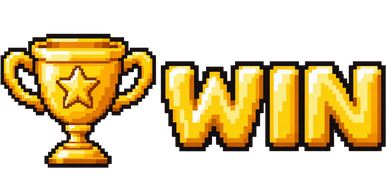
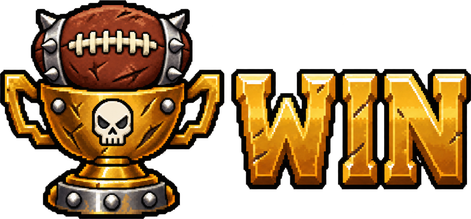
Public export of order-66 @ 375fb0fc

diff --git a/apps/tauri/src/views/console/PlayView.vue b/apps/tauri/src/views/console/PlayView.vue
@@ -427,11 +427,12 @@ function myRecent(row: FumbblRecentMatch): 'W' | 'L' | 'D' { return resultLetter
             <span class="row-text">
               <strong class="row-name">{{ game.home.name }}</strong>
               <small class="row-meta row-coach">{{ game.home.coach }}</small>
+              <small v-if="game.home.race" class="row-meta row-race">{{ game.home.race }}</small>
               <small v-if="formatTeamValue(game.home.tv)" class="row-meta">{{ formatTeamValue(game.home.tv) }}</small>
             </span>
           </div>
           <div class="row-centre">
-            <span class="row-score">{{ game.home.score }} &ndash; {{ game.away.score }}</span>
+            <span class="row-score"><span class="row-score-n">{{ game.home.score }}</span><span class="row-score-dash">&ndash;</span><span class="row-score-n">{{ game.away.score }}</span></span>
             <span class="row-phase">{{ phaseLabel(game) }}</span>
           </div>
           <div class="row-right">
@@ -441,6 +442,7 @@ function myRecent(row: FumbblRecentMatch): 'W' | 'L' | 'D' { return resultLetter
               <span class="row-text">
                 <strong class="row-name">{{ game.away.name }}</strong>
                 <small class="row-meta row-coach">{{ game.away.coach }}</small>
+              <small v-if="game.away.race" class="row-meta row-race">{{ game.away.race }}</small>
                 <small v-if="formatTeamValue(game.away.tv)" class="row-meta">{{ formatTeamValue(game.away.tv) }}</small>
               </span>
             </div>
@@ -477,6 +479,7 @@ function myRecent(row: FumbblRecentMatch): 'W' | 'L' | 'D' { return resultLetter
               <span class="row-text">
                 <strong class="row-name">{{ row.myTeam }}</strong>
                 <small class="row-meta row-coach">{{ coach }}</small>
+                <small v-if="row.myRace" class="row-meta row-race">{{ row.myRace }}</small>
                 <small v-if="formatTeamValue(row.myTv)" class="row-meta">{{ formatTeamValue(row.myTv) }}</small>
               </span>
             </div>
@@ -485,8 +488,7 @@ function myRecent(row: FumbblRecentMatch): 'W' | 'L' | 'D' { return resultLetter
                    WIN / LOSS / DRAW label art (alt text names it), from MY side of the match. -->
               <img class="row-result-art" :data-result="myRecent(row)" :src="matchResultArt(myRecent(row)).src" :srcset="matchResultArt(myRecent(row)).srcset"
                 :width="matchResultArt(myRecent(row)).width" :height="matchResultArt(myRecent(row)).height" :alt="matchResultArt(myRecent(row)).alt" />
-              <span class="row-score">{{ row.myScore }} &ndash; {{ row.opponentScore }}</span>
-              <span class="row-phase">{{ relativeTime(row.when) }}</span>
+              <span class="row-score"><span class="row-score-n">{{ row.myScore }}</span><span class="row-score-dash">&ndash;</span><span class="row-score-n">{{ row.opponentScore }}</span></span>
             </div>
             <div class="row-right">
               <div class="row-team away">
@@ -495,6 +497,7 @@ function myRecent(row: FumbblRecentMatch): 'W' | 'L' | 'D' { return resultLetter
                 <span class="row-text">
                   <strong class="row-name">{{ row.opponentTeam }}</strong>
                   <small class="row-meta row-coach">{{ row.opponentCoach }}</small>
+                  <small v-if="row.opponentRace" class="row-meta row-race">{{ row.opponentRace }}</small>
                   <small v-if="formatTeamValue(row.opponentTv)" class="row-meta">{{ formatTeamValue(row.opponentTv) }}</small>
                 </span>
               </div>
@@ -502,6 +505,8 @@ function myRecent(row: FumbblRecentMatch): 'W' | 'L' | 'D' { return resultLetter
               <div class="row-actions">
                 <button class="bevel resume-button details-button" type="button" :data-cached="hasDetails(row)" :title="hasDetails(row) ? `End-of-game details for match ${row.matchId}` : `No stored details for match ${row.matchId} — replay it from here`" @click="openDetails(row)">Details</button>
                 <button class="bevel resume-button row-replay-button" type="button" :disabled="gameStore.replay.loading" :title="`Replay match ${row.matchId}`" @click="replayMatch(row)">Replay</button>
+                <!-- Owner 10-01 (S78): when it was played sits under the buttons, not in the result box. -->
+                <span class="row-when">{{ relativeTime(row.when) }}</span>
               </div>
             </div>
           </article>
@@ -656,7 +661,7 @@ h2 { display: flex; align-items: center; gap: 10px; color: var(--pb-carmine); fo
 /* Owner 10-01 (S77): a game row is THREE boxes - my team | result | opponent - each bevelled and lifted off the row
    so it reads as its own panel. The left and right COLUMNS are equal, so the result box (and its icon) sits on the
    row's centre line; the right column holds the opponent box and the action buttons (.row-right). */
-.game-row { display: grid; grid-template-columns: minmax(0, 1fr) minmax(190px, .34fr) minmax(0, 1fr); align-items: stretch; gap: 12px; padding: 12px 14px; border: 1px solid var(--pb-line); border-radius: 4px; background: var(--ui-eggshell, #E7DDC7); }
+.game-row { display: grid; grid-template-columns: minmax(0, 1fr) minmax(250px, .34fr) minmax(0, 1fr); align-items: stretch; gap: 12px; padding: 12px 14px; border: 1px solid var(--pb-line); border-radius: 4px; background: var(--ui-eggshell, #E7DDC7); }
 .row-team, .row-centre { box-sizing: border-box; padding: 10px 14px; border: 1px solid color-mix(in srgb, var(--pb-text) 30%, transparent); border-radius: 6px;
   background: var(--ui-old-lace, #F8F5E7);
   box-shadow: inset 0 1px 0 rgba(255, 255, 255, .9), inset 0 -3px 0 rgba(26, 64, 28, .12), 0 3px 7px rgba(26, 64, 28, .24); }
@@ -666,17 +671,21 @@ h2 { display: flex; align-items: center; gap: 10px; color: var(--pb-carmine); fo
 .row-right > .bevel { align-self: center; flex: none; }
 .row-team.away { flex-direction: row-reverse; text-align: right; }
 .row-logo { flex: 0 0 128px; width: 128px; height: 128px; object-fit: contain; image-rendering: pixelated; }
-.row-text { display: grid; gap: 8px; min-width: 0; } /* owner 10-01 (S76): room around the coach name (was 2px) */
+.row-text { display: grid; gap: 6px; min-width: 0; } /* owner 10-01 (S76/S79): name / coach / race / TV, evenly spaced */
 .row-name { color: var(--pb-text); font-size: 24px; font-weight: 500; line-height: 1.15; overflow-wrap: break-word; }
 .row-meta { color: var(--pb-muted); font-size: 18px; line-height: 1.2; }
 .row-coach { color: var(--pb-text); } /* owner 09-25: coach names in the darker green */
 .row-centre { display: grid; justify-items: center; align-content: center; gap: 6px; min-width: 0; }
-.row-score { color: var(--pb-carmine); font-family: 'Nuffle', system-ui, sans-serif; font-size: 27px; font-weight: 800; line-height: 1; text-shadow: 2px 2px 0 rgba(26, 64, 28, .18); white-space: nowrap; }
+.row-score { color: var(--pb-carmine); font-family: 'Nuffle', system-ui, sans-serif; font-size: 42px; /* owner 10-01 (S78): larger, the time left this box (was 27px) */ font-weight: 800; line-height: 1; text-shadow: 2px 2px 0 rgba(26, 64, 28, .18); white-space: nowrap;
+  display: grid; grid-template-columns: 1fr auto 1fr; column-gap: .35em; align-items: baseline; justify-self: stretch; }
+.row-score-n:first-child { text-align: right; }
+.row-score-n:last-child { text-align: left; }
 .row-phase { color: var(--pb-text); font-size: 14px; letter-spacing: .12em; text-transform: uppercase; white-space: nowrap; }
 /* Owner 10-01 (S77): the result label art at its own CSS size (1x/2x/3x sources, never stretched). */
-.row-result-art { display: block; flex: none; max-width: 100%; height: auto; image-rendering: auto; }
+.row-result-art { display: block; flex: none; max-width: 100%; height: auto; image-rendering: auto; } /* S79: the IMAGE's centre sits over the score's dash */
 .resume-button, .play-button { font-size: 22px; padding: 10px 22px; white-space: nowrap; }
-.row-actions { display: grid; gap: 8px; align-content: center; align-self: center; } /* grid: both buttons take the wider one's width */
+.row-actions { display: grid; gap: 8px; align-content: center; align-self: center; justify-items: stretch; }
+.row-when { color: var(--pb-text); font-size: 14px; letter-spacing: .12em; text-align: center; text-transform: uppercase; white-space: nowrap; } /* grid: both buttons take the wider one's width */
 .play-button { font-size: 24px; }
 
 /* Recent games: same card; the list scrolls once it outgrows the viewport share */

diff --git a/apps/tauri/src/game/matchResultArt.ts b/apps/tauri/src/game/matchResultArt.ts
@@ -2,9 +2,17 @@
 // letter. Each label is exported at 1x / 2x / 3x of its CSS size (Lanczos from the trimmed master, see
 // assets/match-results/PROVENANCE.json) so the browser picks a pre-filtered image for the display density instead of
 // minifying one big one. The three labels have different symbol-to-letter proportions, so their CSS sizes differ:
-// they are sized so the LETTERS share one height (30 CSS px) - never stretch them to one box.
+// they are sized so the LETTERS share one height (40 CSS px) - never stretch them to one box.
+// Owner 10-01 (S78, approved final art: WIN v4 / LOSS v2 / DRAW v4). S79: the IMAGE is centred (over the score's dash);
+// centring the lettering alone read as off-centre, so `shiftX` is recorded but NOT applied by the Play blade.
 export type MatchResult = 'W' | 'L' | 'D';
-export interface MatchResultArt { alt: string; src: string; srcset: string; width: number; height: number }
+export interface MatchResultArt {
+  alt: string; src: string; srcset: string; width: number; height: number;
+  /** Centre of the lettering, CSS px from the image's left edge. */
+  textCenterX: number;
+  /** translateX (CSS px) that puts the lettering's centre where the image's centre would be. */
+  shiftX: number;
+}
 
 // Static URLs (one literal per file) so the bundler ships exactly these nine images.
 const FILES: Record<string, [string, string, string]> = {
@@ -12,15 +20,15 @@ const FILES: Record<string, [string, string, string]> = {
   loss: [new URL('../assets/match-results/loss-label-1x.png', import.meta.url).href, new URL('../assets/match-results/loss-label-2x.png', import.meta.url).href, new URL('../assets/match-results/loss-label-3x.png', import.meta.url).href],
   draw: [new URL('../assets/match-results/draw-label-1x.png', import.meta.url).href, new URL('../assets/match-results/draw-label-2x.png', import.meta.url).href, new URL('../assets/match-results/draw-label-3x.png', import.meta.url).href],
 };
-function art(stem: string, alt: string, width: number, height: number): MatchResultArt {
+function art(stem: string, alt: string, width: number, height: number, textCenterX: number): MatchResultArt {
   const [x1, x2, x3] = FILES[stem]!;
-  return { alt, src: x1, srcset: `${x1} 1x, ${x2} 2x, ${x3} 3x`, width, height };
+  return { alt, src: x1, srcset: `${x1} 1x, ${x2} 2x, ${x3} 3x`, width, height, textCenterX, shiftX: Math.round((width / 2 - textCenterX) * 10) / 10 };
 }
 
 const ART: Record<MatchResult, MatchResultArt> = {
-  W: art('win', 'Win', 129, 61),
-  L: art('loss', 'Loss', 141, 68),
-  D: art('draw', 'Draw', 146, 55),
+  W: art('win', 'Win', 157, 73, 117.3),
+  L: art('loss', 'Loss', 170, 72, 125.1),
+  D: art('draw', 'Draw', 186, 49, 140.3),
 };
 
 /** The label art for a result from the viewing coach's side (`resultLetter(myScore, opponentScore)`). */
